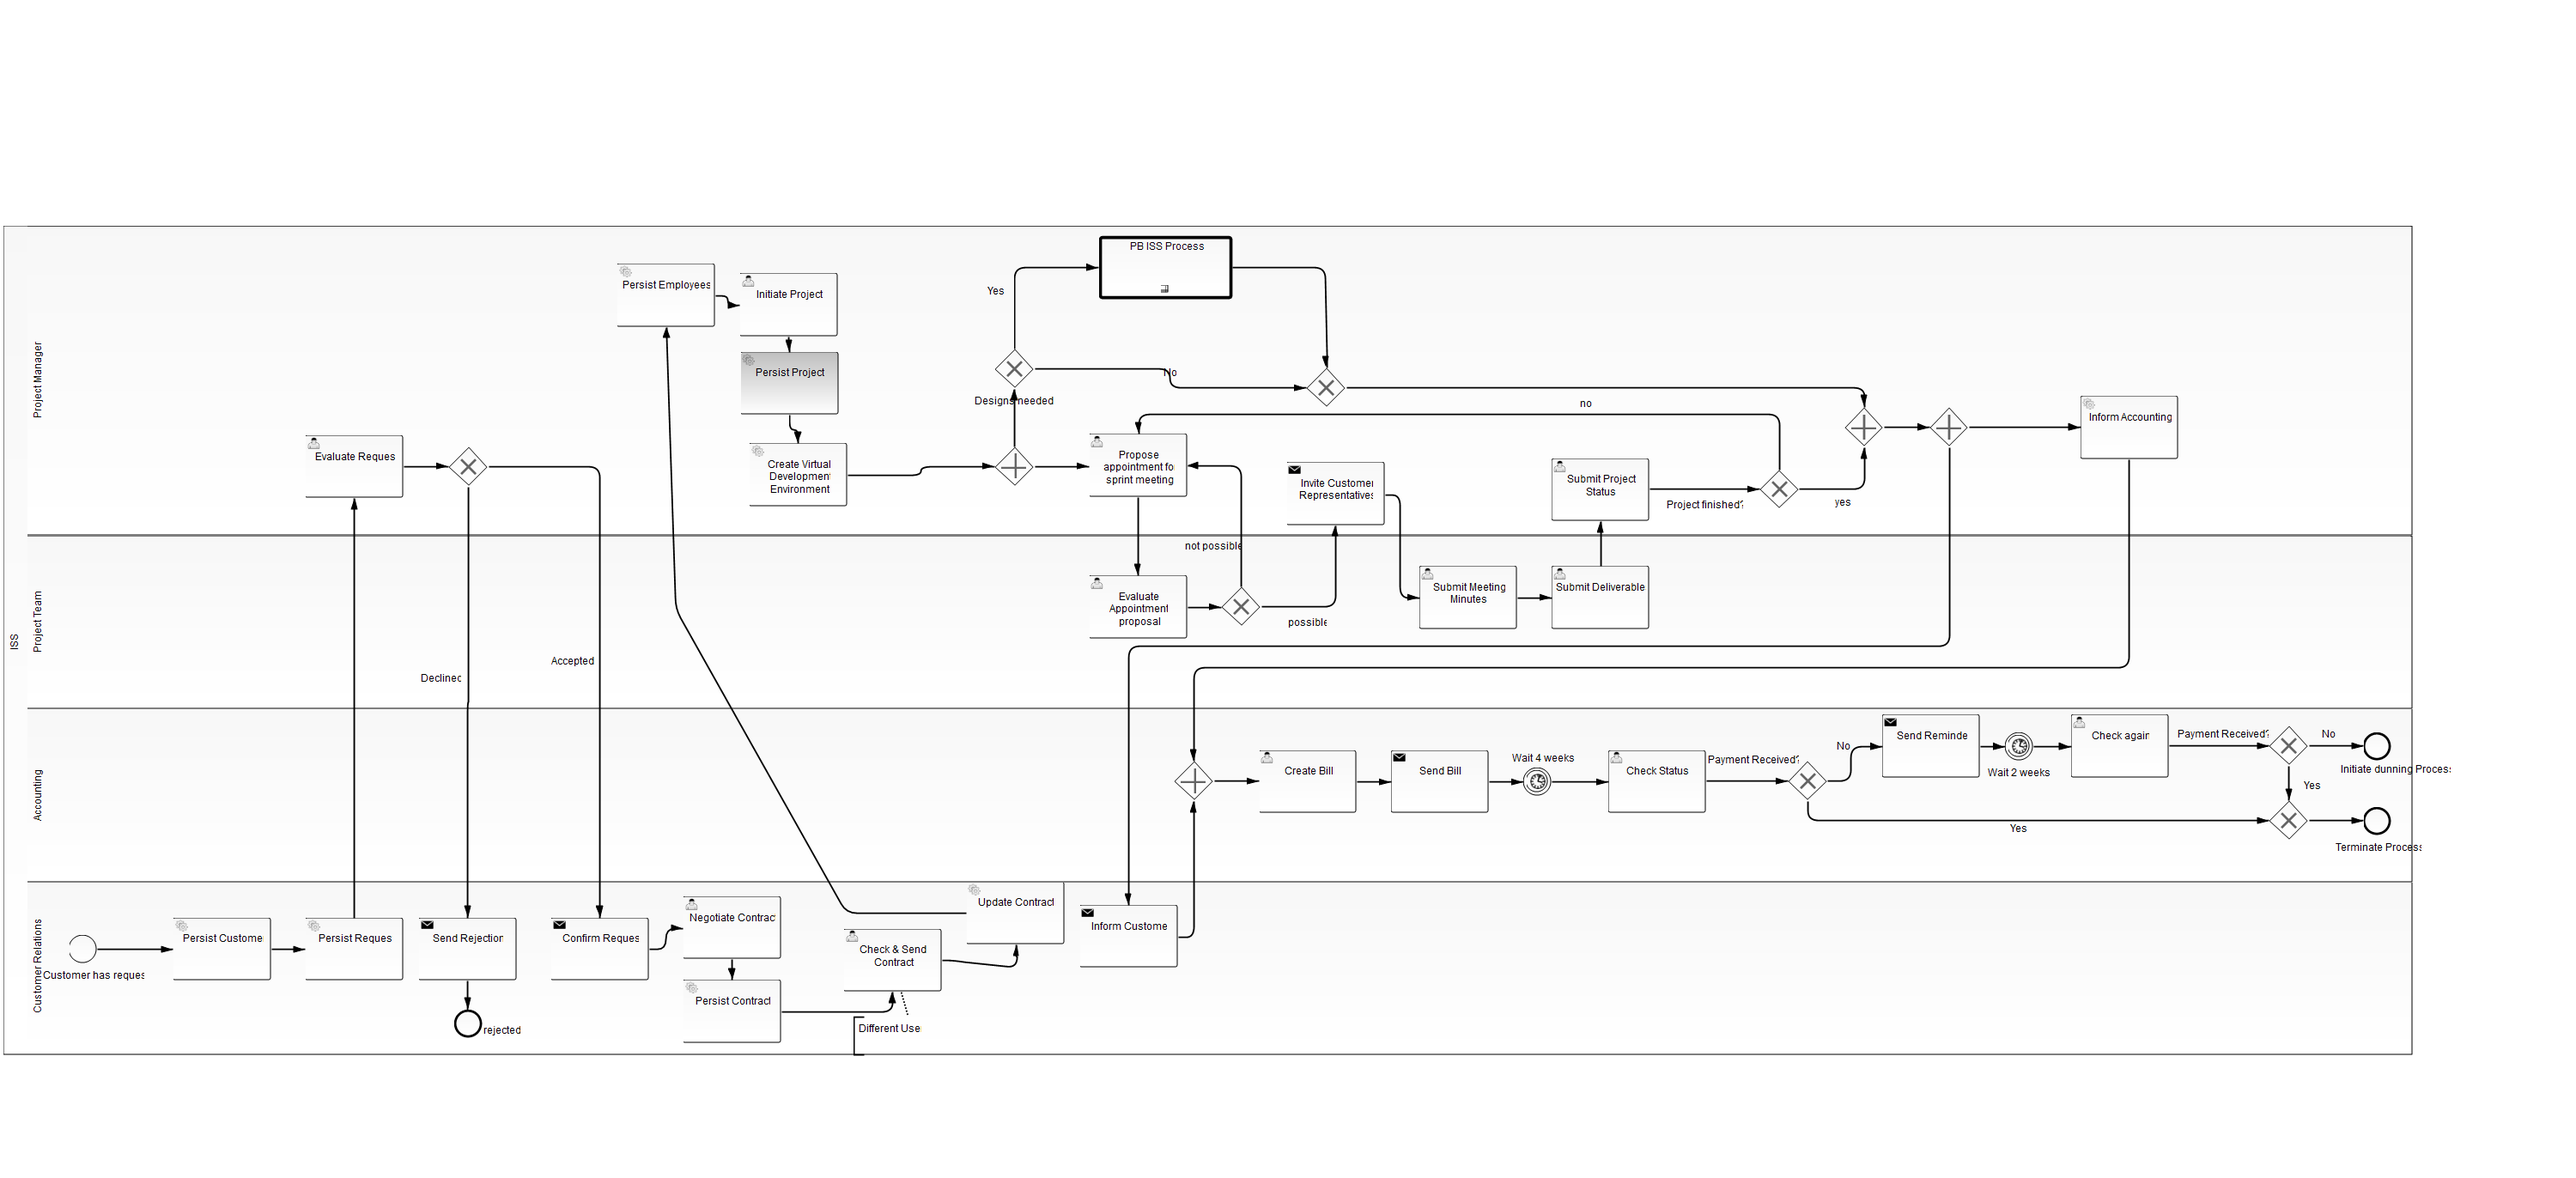
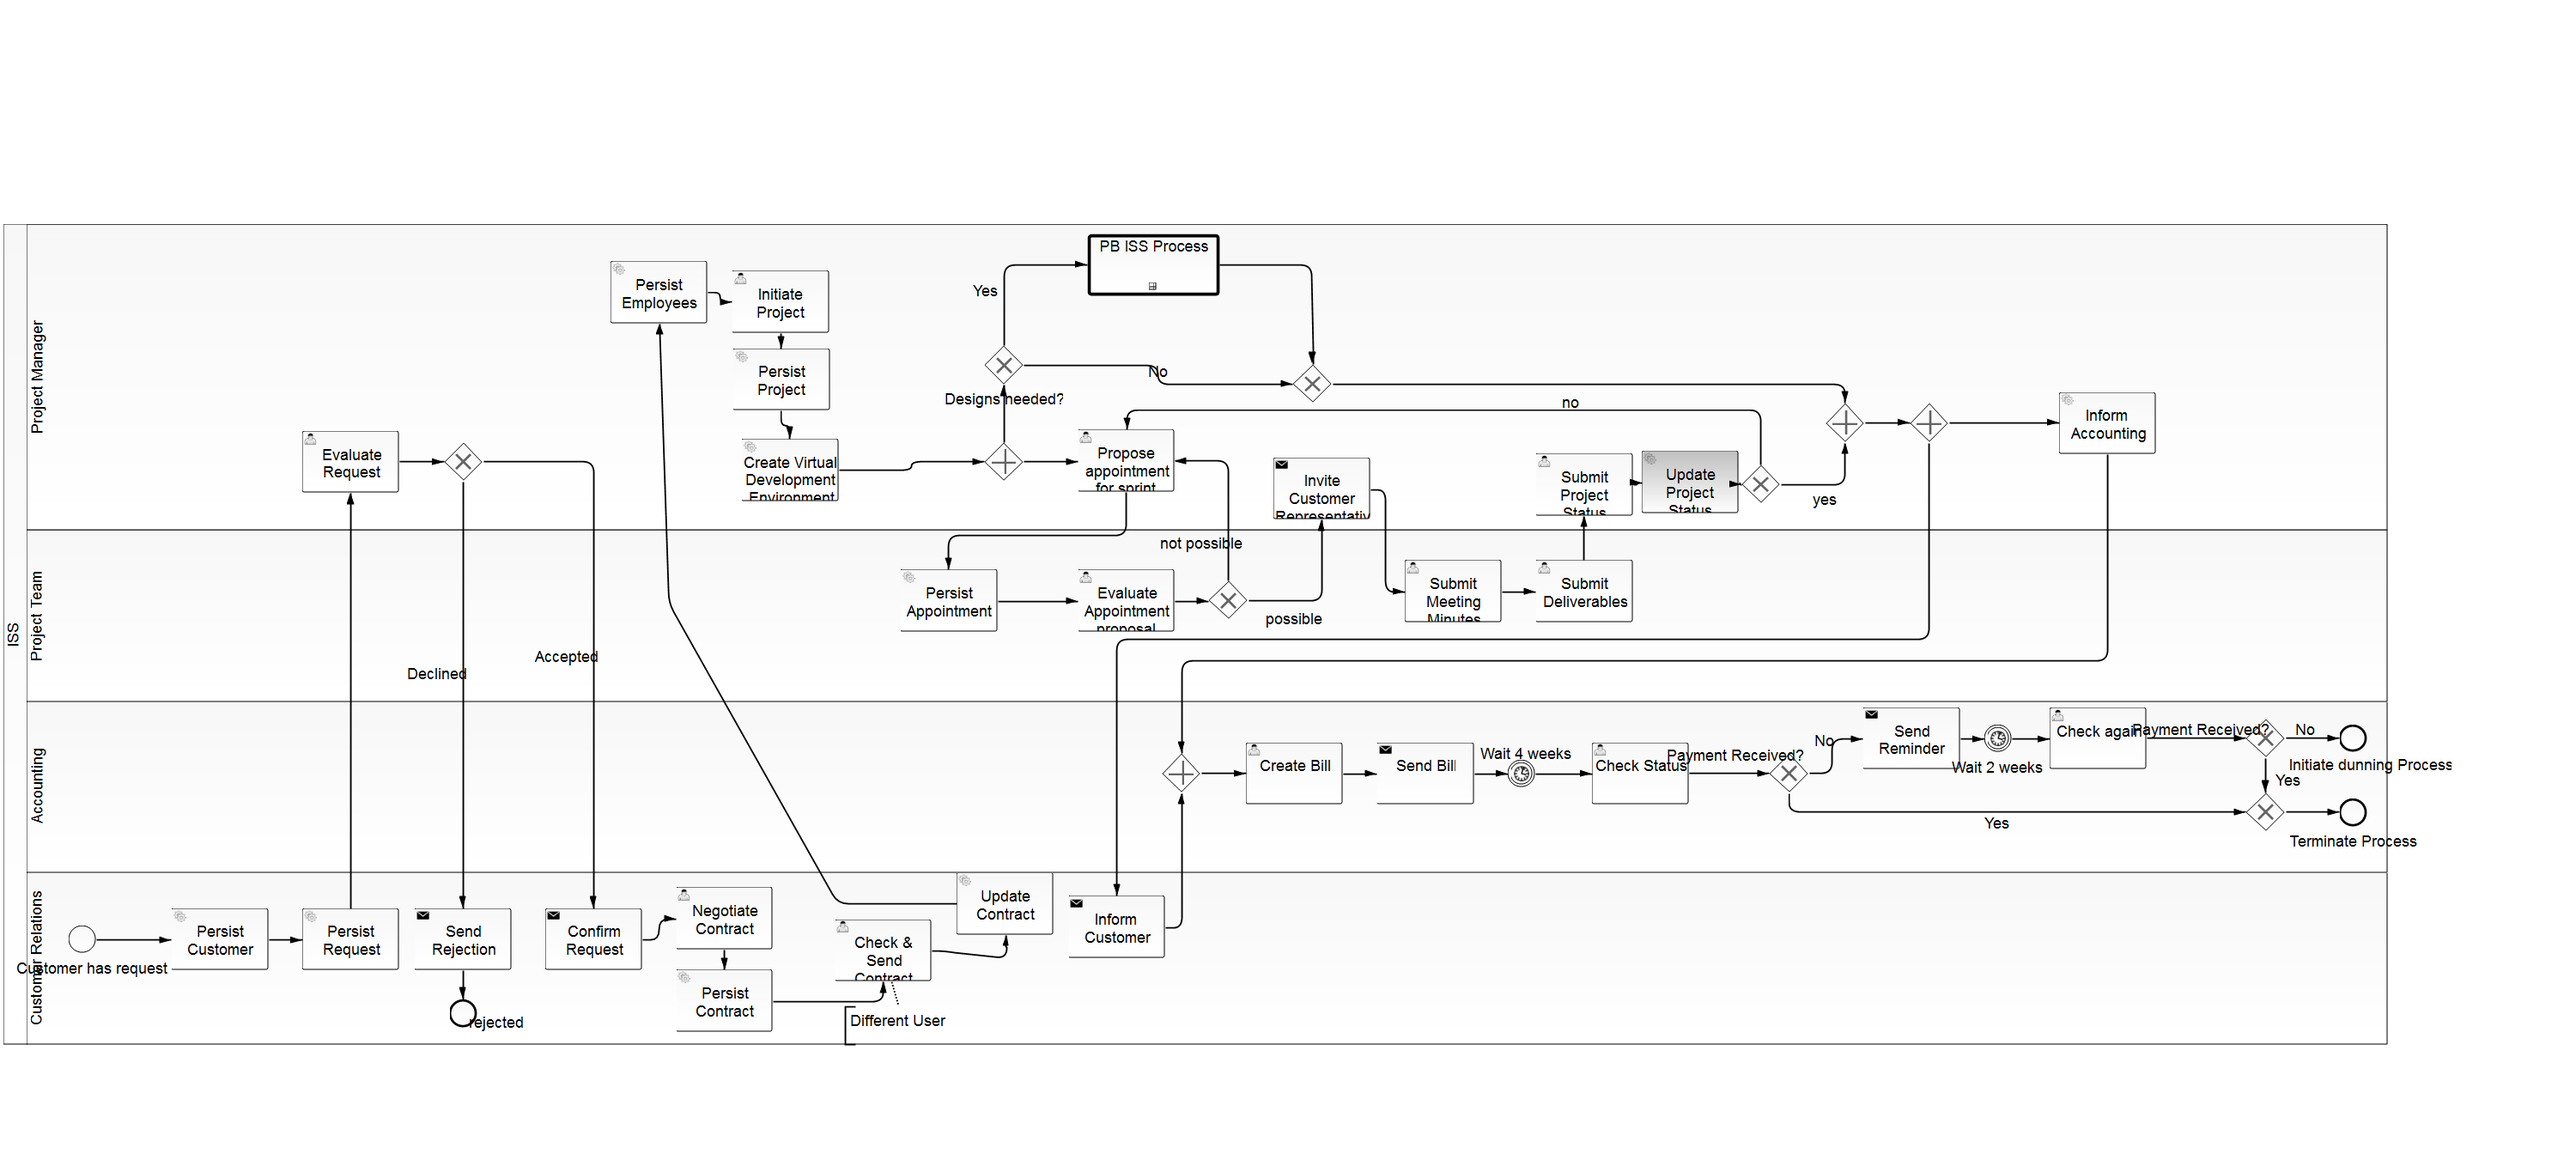
Persist Appointment und Update Project Status hinzugefügt

diff --git a/iss-project/src/main/java/org/camunda/bpm/iss/ejb/ProjectService.java b/iss-project/src/main/java/org/camunda/bpm/iss/ejb/ProjectService.java
@@ -1,5 +1,6 @@
 package org.camunda.bpm.iss.ejb;
 
+import java.io.IOException;
 import java.util.Date;
 import java.util.Map;
 import java.util.logging.Level;
@@ -11,6 +12,7 @@ import javax.inject.Named;
 import javax.persistence.EntityManager;
 import javax.persistence.PersistenceContext;
 
+import org.camunda.bpm.engine.cdi.BusinessProcess;
 import org.camunda.bpm.engine.cdi.jsf.TaskForm;
 import org.camunda.bpm.engine.delegate.DelegateExecution;
 import org.camunda.bpm.iss.entity.Customer;
@@ -28,6 +30,9 @@ public class ProjectService {
 	  
 	  @Inject
 		CustomerService customerService;
+	  
+	  @Inject
+	  private BusinessProcess businessProcess;
 		
 		  	  
 	  private static Logger LOGGER = Logger.getLogger(ProjectService.class.getName());
@@ -74,5 +79,14 @@ public class ProjectService {
 	  public void addEmployeesToProject(Long id){
 		  
 	  }
+	  
+	  public void updateProject(Long projectId) throws IOException {
+		  Project project = getProject(projectId);		 
+		  Boolean projectStatus = businessProcess.getVariable("projectStatus");
+		  project.setProjectStatus(projectStatus);
+		  LOGGER.log(Level.INFO, "This is updateProject for project: "+project.toString());
+		  LOGGER.log(Level.INFO, "The project status now is: "+project.getProjectStatus());
+		  entityManager.merge(project);
+	  } 
 	  
 }

diff --git a/iss-project/src/main/java/org/camunda/bpm/iss/entity/Project.java b/iss-project/src/main/java/org/camunda/bpm/iss/entity/Project.java
@@ -26,7 +26,7 @@ public class Project implements Serializable {
 	protected int[] individualTime;
 	protected int[] individualRate;
 	protected boolean design;
-	protected boolean finished;
+	protected boolean projectStatus;
 	protected int costEstimate;
 	protected Date projectStart;
 	protected Date projectEnd;
@@ -103,11 +103,11 @@ public class Project implements Serializable {
 	public void setDesign(boolean design) {
 		this.design = design;
 	}
-	public boolean isFinished() {
-		return finished;
+	public boolean getProjectStatus() {
+		return projectStatus;
 	}
-	public void setFinished(boolean finished) {
-		this.finished = finished;
+	public void setProjectStatus(boolean projectStatus) {
+		this.projectStatus = projectStatus;
 	}
 	public int getCostEstimate() {
 		return costEstimate;
